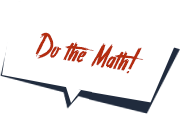
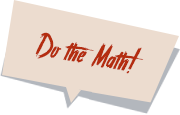
balao novos

diff --git a/com/gamebase/ui/battle/SpeakHero.ts b/com/gamebase/ui/battle/SpeakHero.ts
@@ -1,0 +1,89 @@
+
+module GameBase {
+ 
+    export class SpeakHero extends Pk.PkElement {
+        
+        text:Phaser.Text;
+        bg:Phaser.Sprite;
+
+        hero:GameBase.Hero;
+
+        constructor(game:Pk.PkGame, hero:GameBase.Hero)
+        {
+            super(game);
+
+            this.hero = hero;
+        }
+
+        create()
+        {
+            // bg bg! // same world size
+            this.bg = this.game.add.sprite(0, 0, 'speak-' + this.game.rnd.integerInRange(1, 5));
+
+            // pos on hero head
+            // this.bg.anchor.set(0.5, .5);
+            /*
+            this.bg.anchor.x = 0.5;
+            this.bg.anchor.y = 1;
+            this.bg.x = this.hero.body.x //;+ this.bg.width;
+            this.bg.y = this.hero.body.y;
+            */
+
+            this.add(this.bg);
+			this.visible = false;
+
+            Pk.PkState.currentState.addToLayer('ui', this);
+
+            // pos
+        }
+
+        show()
+        {
+            // pos
+            this.bg.x = this.hero.x;
+            this.bg.y = this.hero.y - this.height;
+
+            this.visible = true;
+
+            // show bg
+            console.log('here', this.rotation)
+            this.addTween(this.bg).from(
+                {
+                    alpha:0,
+                    y:this.bg.y+10,
+                    rotation:this.rotation - 0.1
+                }, 
+                200,
+                Phaser.Easing.Back.In,
+                true
+            ).onComplete.add(()=>{
+
+                this.addTween(this.bg).to(
+                    {
+                        alpha:0,
+                        y:this.bg.y-10
+                    }, 
+                    200,
+                    Phaser.Easing.Linear.None,
+                    true,
+                    2500
+                ).onComplete.add(()=>{
+                    console.log('complete----');
+                    this.destroy();
+                })
+                
+            }, this);
+
+
+        }
+    }
+
+    export module E 
+    {
+        export module SpeakHeroEvent
+        {
+            export const OnEnd:string 	= "SpeakHeroEventEnd";
+        }
+    }
+
+} 
